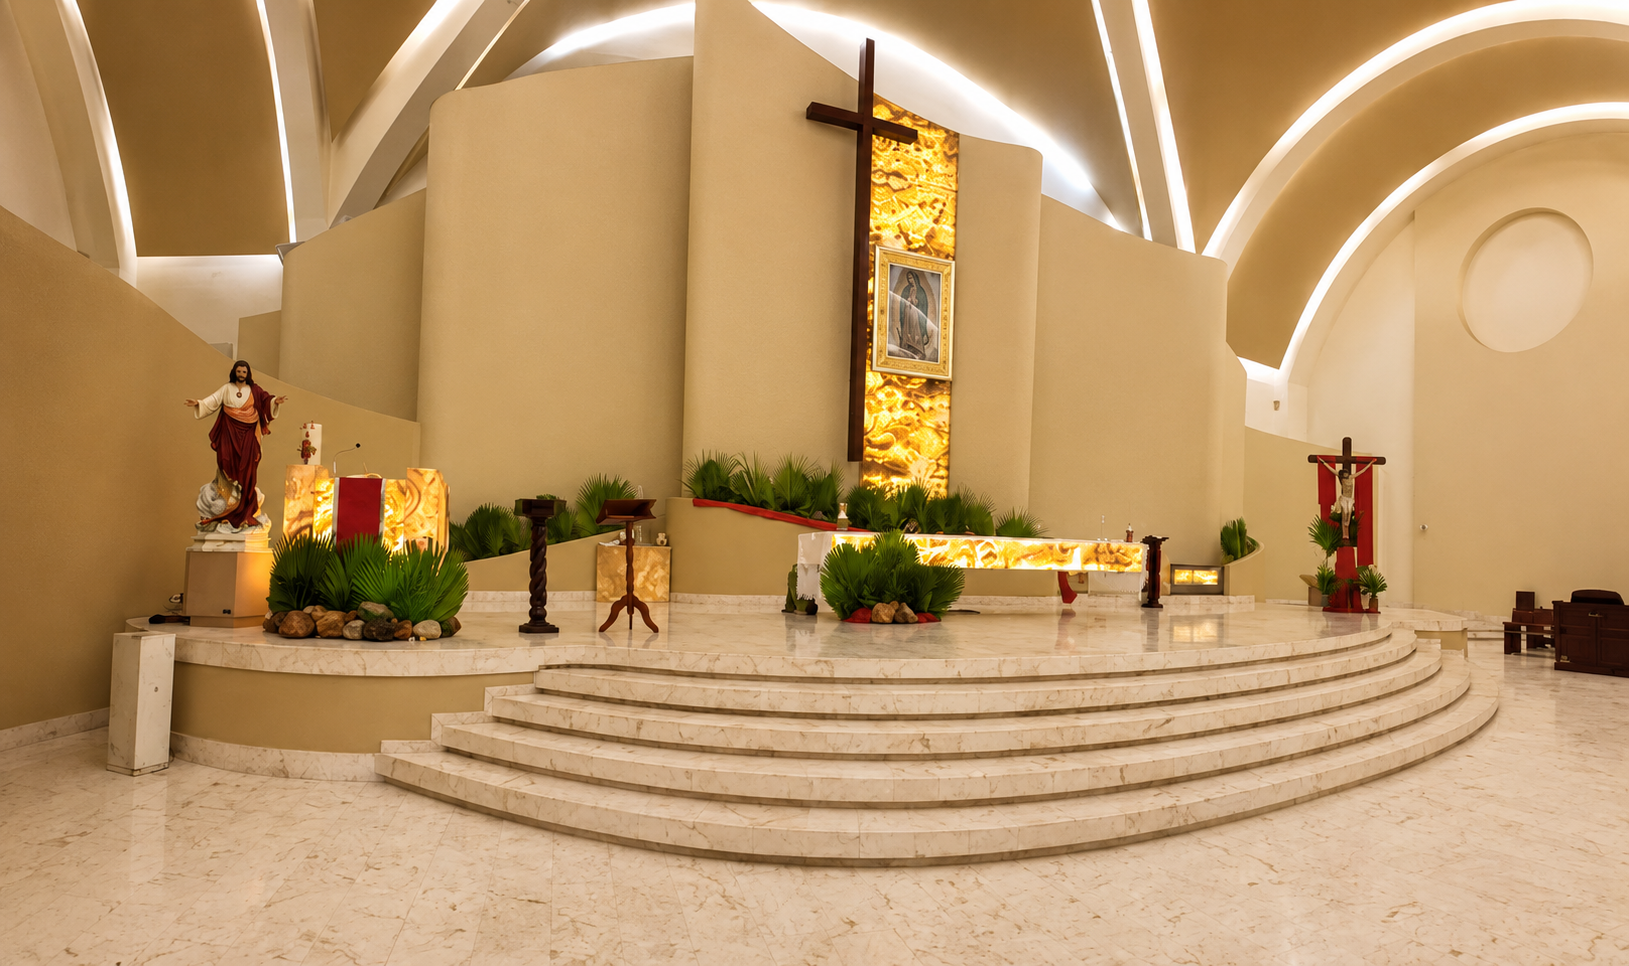
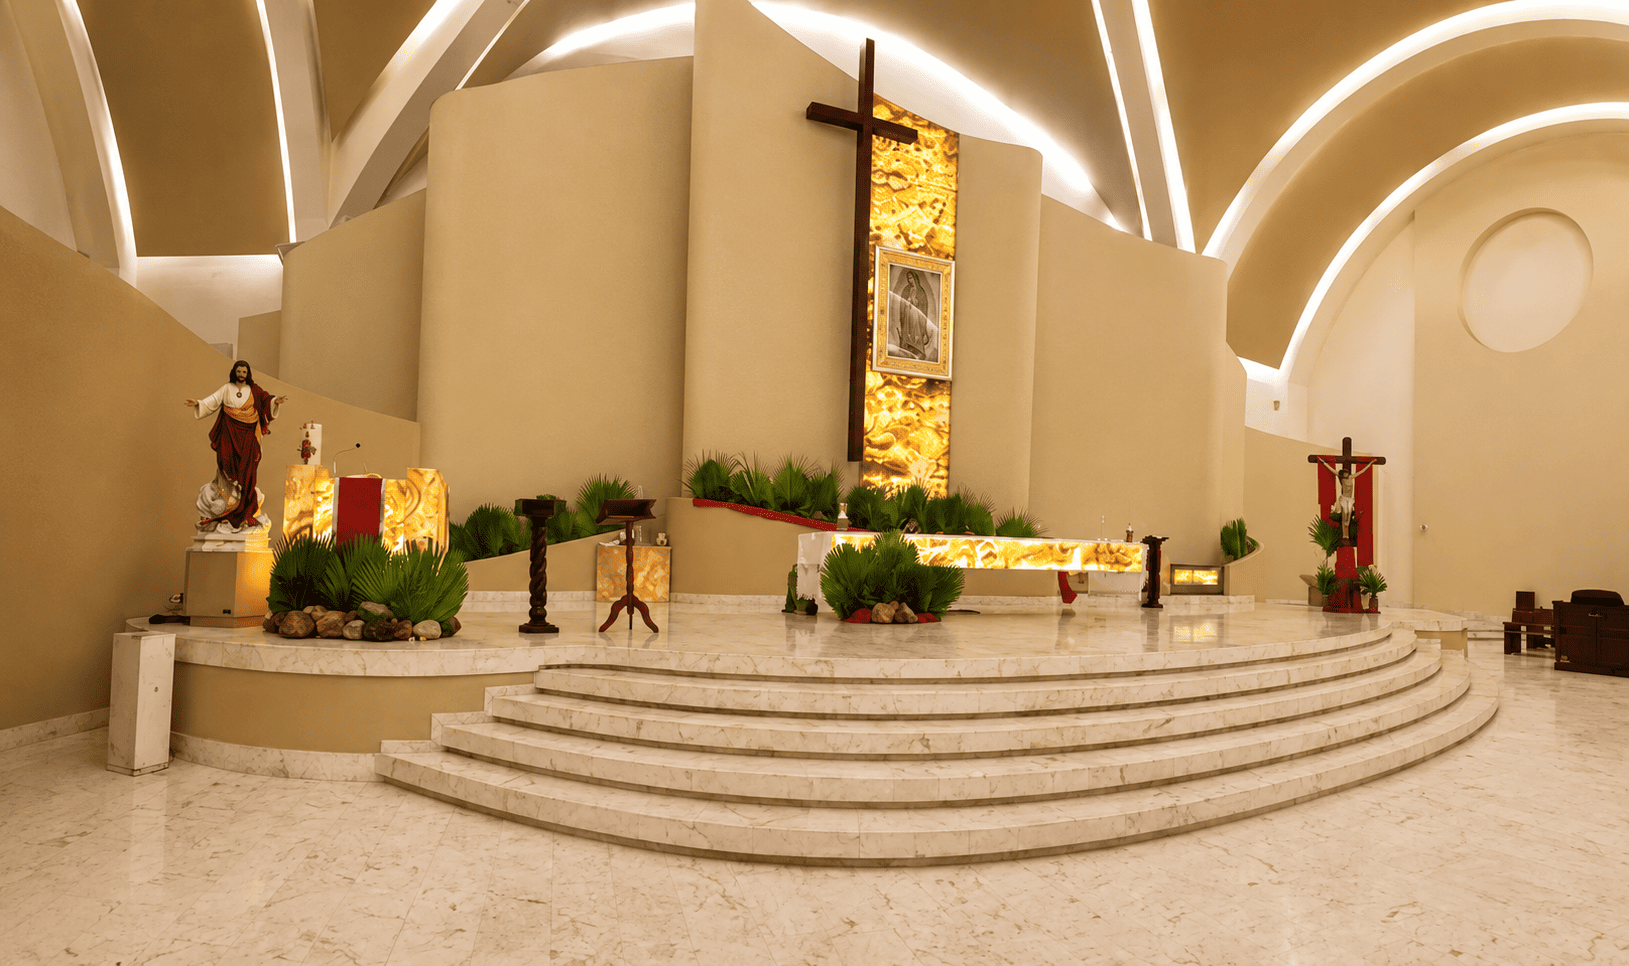
eliminar recursos pesados

diff --git a/src/app/app.ts b/src/app/app.ts
@@ -208,23 +208,8 @@ export class App implements OnInit, OnDestroy {
 
   private countdownInterval: any;
 
-  // GALERÍA
-  galleryPhotos = [
-    'assets/optimized/DSC_5148.JPG',
-    'assets/optimized/DSC_5178.JPG',
-    'assets/optimized/DSC_5198.JPG',
-    'assets/optimized/DSC_5210.jpeg',
-    'assets/optimized/DSC_5332.JPG',
-    'assets/optimized/DSC_5340.JPG',
-    'assets/optimized/DSC_5343.JPG',
-    'assets/optimized/DSC_5422.JPG',
-    'assets/optimized/DSC_5460.JPG',
-    'assets/optimized/DSC_5471.JPG',
-    'assets/optimized/DSC_5514.JPG',
-    'assets/optimized/detalles.jpeg',
-    'assets/optimized/DSC_5524.JPG',
-    'assets/optimized/DSC_5612.JPG'
-  ];
+  // GALERÍA (Carrusel desactivado)
+  galleryPhotos: string[] = [];
   currentPhotoIndex = 0;
   isGalleryMaximized = false;
   private carouselInterval: any;
@@ -297,12 +282,16 @@ export class App implements OnInit, OnDestroy {
                         this.router.parseUrl(this.router.url).queryParams['code'];
     
     const criticalAssets = [
-      'https://www.transparenttextures.com/patterns/cream-paper.png',
-      'https://www.transparenttextures.com/patterns/natural-paper.png',
       'assets/optimized/jk_logo.png',
       'assets/optimized/sellob.png',
+      'assets/optimized/DSC_5070.JPG',
+      'assets/optimized/columna3c.jpeg'
+    ];
+
+    const secondaryAssets = [
+      'https://www.transparenttextures.com/patterns/cream-paper.png',
+      'https://www.transparenttextures.com/patterns/natural-paper.png',
       'assets/optimized/background5.png',
-      'assets/optimized/hero-bg1.jpg',
       'assets/optimized/nos-casamos4.jpg',
       'assets/optimized/anillo2.png',
       'assets/optimized/detalles.jpeg',
@@ -326,7 +315,7 @@ export class App implements OnInit, OnDestroy {
       ? this.loadGuest(initialCode) 
       : Promise.resolve().then(() => { this.invalidCode = false; });
 
-    const timeoutPromise = new Promise<void>((resolve) => setTimeout(resolve, 10000));
+    const timeoutPromise = new Promise<void>((resolve) => setTimeout(resolve, 4000));
 
     const loadAllResources = Promise.all([
       guestPromise,
@@ -340,6 +329,8 @@ export class App implements OnInit, OnDestroy {
       setTimeout(() => {
         this.showLoadingDOM = false;
         this.cdr.detectChanges();
+        // Precargar resto de imágenes en segundo plano sin bloquear la pantalla inicial
+        this.preloadImages(secondaryAssets);
       }, 600);
     });
 

diff --git a/src/index.html b/src/index.html
@@ -7,6 +7,7 @@
   <base href="/">
   <meta name="viewport" content="width=device-width, initial-scale=1">
   <link rel="icon" type="image/png" href="assets/optimized/jk_logo.png">
+  <link rel="preload" as="image" href="assets/optimized/columna3c.jpeg">
   <meta property="og:title" content="Jesús & Karla | Nuestra boda">
   <meta property="og:description"
     content="Acompáñanos a celebrar uno de los días más importantes de nuestras vidas 💍✨">

diff --git a/src/app/app.html b/src/app/app.html
@@ -1,4 +1,4 @@
-<audio #bgAudio id="bg-audio" loop preload="auto" src="assets/audio/song.mp3" (timeupdate)="onTimeUpdate(bgAudio)"
+<audio #bgAudio id="bg-audio" loop preload="none" src="assets/audio/song.mp3" (timeupdate)="onTimeUpdate(bgAudio)"
   (durationchange)="onDurationChange(bgAudio)" (loadedmetadata)="onLoadedMetadata(bgAudio)">
 </audio>
 

diff --git a/src/app/config/wedding.config.ts b/src/app/config/wedding.config.ts
@@ -11,7 +11,7 @@ export const WEDDING_CONFIG = {
 
   hero: {
     subtitle: '17 - Octubre - 2026',
-    backgroundImage: 'assets/optimized/columna3c.png',
+    backgroundImage: 'assets/optimized/columna3c.jpeg',
     // backgroundImage: 'assets/optimized/hero-bg1.jpg',
   },
 
